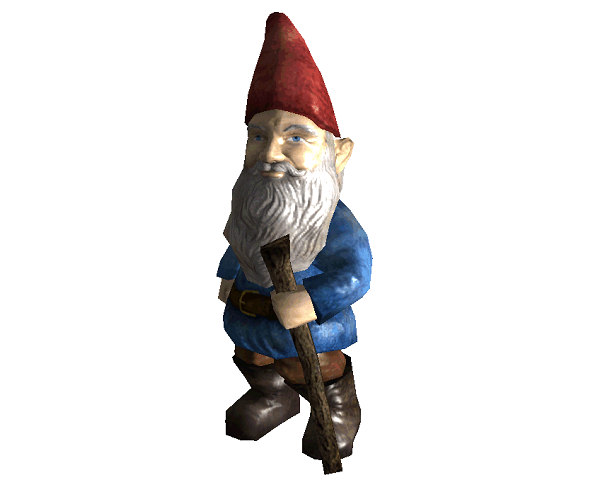
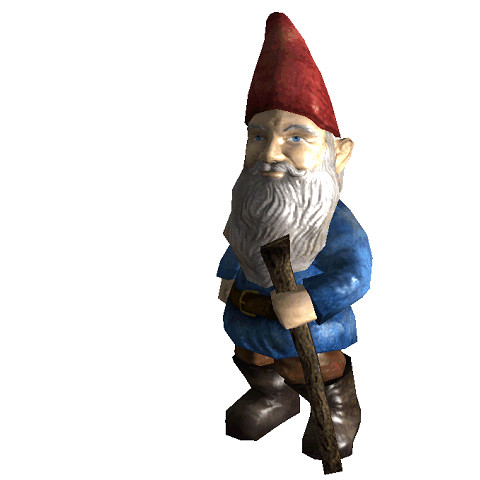
aesthetic improvements for grid

Changed region(s): [[0.3438, 0.0, 0.7812, 1.0]]

diff --git a/app/views/grid.scala.html b/app/views/grid.scala.html
@@ -4,10 +4,10 @@
 
 @if(!products.isEmpty) {
 @for(p <- products) {
-    <div class="item col-xs-12 col-sm-12 col-md-4 col-lg-4" >
-        <div class="thumbnail">
+    <div class="item col-xs-12 col-sm-12 col-md-4 col-lg-4">
+        <div>
             <a href="@routes.ProductViewController.viewProduct(p.pid)">
-                <img class="group list-group-image" src="@p.urlList" alt="" />
+                <img height="250" width="250" src="@p.urlList" alt="" />
 
                 <div class="caption">
                     <h4 class="group inner list-group-item-heading">
@@ -15,9 +15,7 @@
                 </div>
             </a>
 
-            <p id = "grid-p" class="group inner list-group-item-text">
-            @p.description
-            </p>
+
             <p class="group inner list-group-item-text">
                     We have <strong><em>@p.stock</em></strong> in stock
             </p>

diff --git a/app/views/main.scala.html b/app/views/main.scala.html
@@ -288,7 +288,7 @@
             <a style="color: #4099FF" href="https://twitter.com/nbgbrooklyn" role="button"> <i style="font-size: 64px" class="fa fa-twitter-square row-xs-12 row-md-8"> </i> </a>
             <a style="color: #FF0000" href="https://plus.google.com/111293658324555647065" role="button"> <i style="font-size: 64px" class="fa fa-google-plus row-xs-12 row-md-8"> </i> </a>
             <a style="color: # #35465c" href="http://landscapefocused.tumblr.com/" role="button"> <i style="font-size: 64px" class="fa fa-tumblr row-xs-12 row-md-8"> </i> </a>
-            <a style="color: #8B0000" href="http://www.starwars.com/databank/rebel-alliance" role="button"> <i style="font-size: 64px" class="fa fa-rebel row-xs-12 row-md-8"> </i> </a> </div>
+          </div>
 
     </body>
 

diff --git a/app/views/productView.scala.html b/app/views/productView.scala.html
@@ -8,9 +8,9 @@
 
         </div>
         <div class="col-xs-12 col-sm-12 col-md-12 col-lg-6">
-            <div class="thumbnail">
+            <div>
                 <div class="image">
-            <img height="400" width="400" class="small-margin" src="@p.urlList(0)">
+            <img height="300" width="300" class="small-margin" src="@p.urlList(0)">
             <div>
             @for(i <- 1 to p.urlList.length - 1) {
                 <img height="100" width="100" src="@p.urlList(i)">
